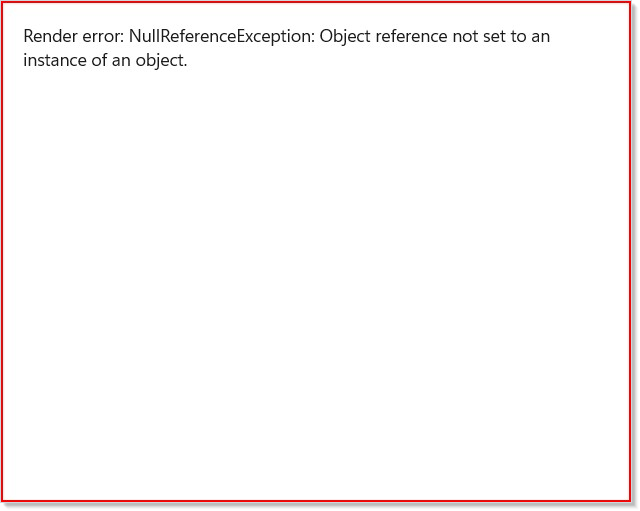
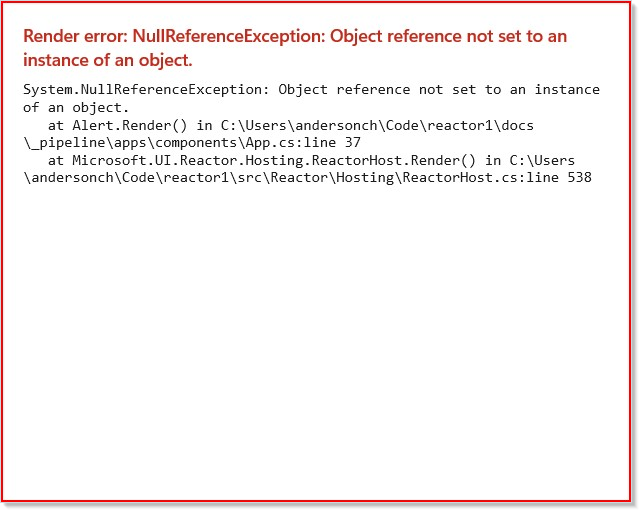
docs(components): document factory-helper pattern for cleaner call sites (#195)
Adds a "Factory Helpers for Cleaner Call Sites" subsection to the Components
guide, covering the `static class Components { ... }` + `using static`
pattern that collapses `Component<T, TProps>(new(...))` to a JSX-like
`T(args)` call. Includes a runnable snippet and naming conventions.

diff --git a/docs/_pipeline/apps/components/App.cs b/docs/_pipeline/apps/components/App.cs
@@ -97,6 +97,15 @@ class FunctionComponentDemo : Component
 }
 // </snippet:function-component>
 
+// <snippet:factory-helpers>
+static class Components
+{
+    public static ComponentElement Alert(string title, string message,
+        string severity = "info") =>
+        Component<global::Alert, AlertProps>(new(title, message, severity));
+}
+// </snippet:factory-helpers>
+
 // <snippet:composition>
 class ComponentsApp : Component
 {

diff --git a/docs/guide/components.md b/docs/guide/components.md
@@ -70,6 +70,43 @@ changed structurally, the child skips its `Render()` call.
 Access props via `Props.PropertyName` inside `Render()`. The parent sets
 props by assigning the `Props` property when creating the component instance.
 
+## Factory Helpers for Cleaner Call Sites
+
+`Component<T, TProps>(new(...))` reads heavily at the call site, especially
+when nested in an element tree. The idiomatic Reactor pattern is to wrap each
+class component in a free-function factory that matches the rest of the DSL:
+
+```csharp
+static class Components
+{
+    public static ComponentElement Alert(string title, string message,
+        string severity = "info") =>
+        Component<global::Alert, AlertProps>(new(title, message, severity));
+}
+```
+
+With `using static Components;` at the top of the consuming file, the call
+site collapses to a normal function call:
+
+| Before                                                | After                                |
+|-------------------------------------------------------|--------------------------------------|
+| `Component<Alert, AlertProps>(new("Saved", "Done"))`  | `Alert("Saved", "Done")`             |
+| `Component<Alert, AlertProps>(new("Hi", "x", "warn"))`| `Alert("Hi", "x", "warn")`           |
+
+The class `Alert` and the helper method `Alert` coexist in the same scope —
+C# resolves `Alert(args)` as a method call and `Component<Alert, ...>` as a
+type reference, based on syntactic position.
+
+Conventions:
+
+- **Match the component name.** Helper `Alert` for class `Alert` reads like
+  JSX: `Alert(...)` instead of `<Alert ... />`.
+- **Group helpers in a single static class** named `Components` (or per
+  feature). One `using static` import per consuming file is plenty.
+- **Skip `Create` / `Of` / `New` prefixes.** Reactor's built-in element
+  factories (`Button`, `TextBlock`, `FlexRow`) all read as bare functions;
+  user helpers should match that grammar.
+
 ## Custom ShouldUpdate
 
 Override `ShouldUpdate` to control when a component re-renders: